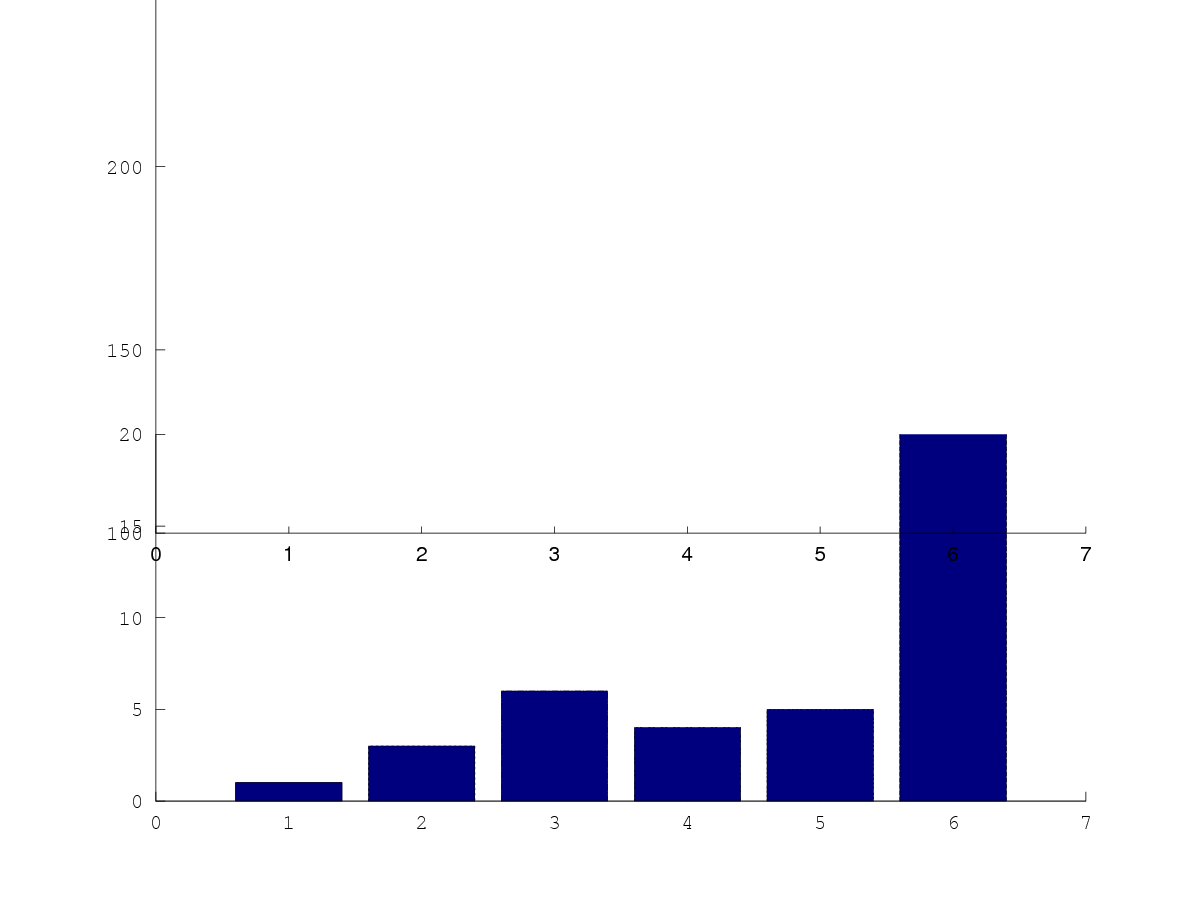
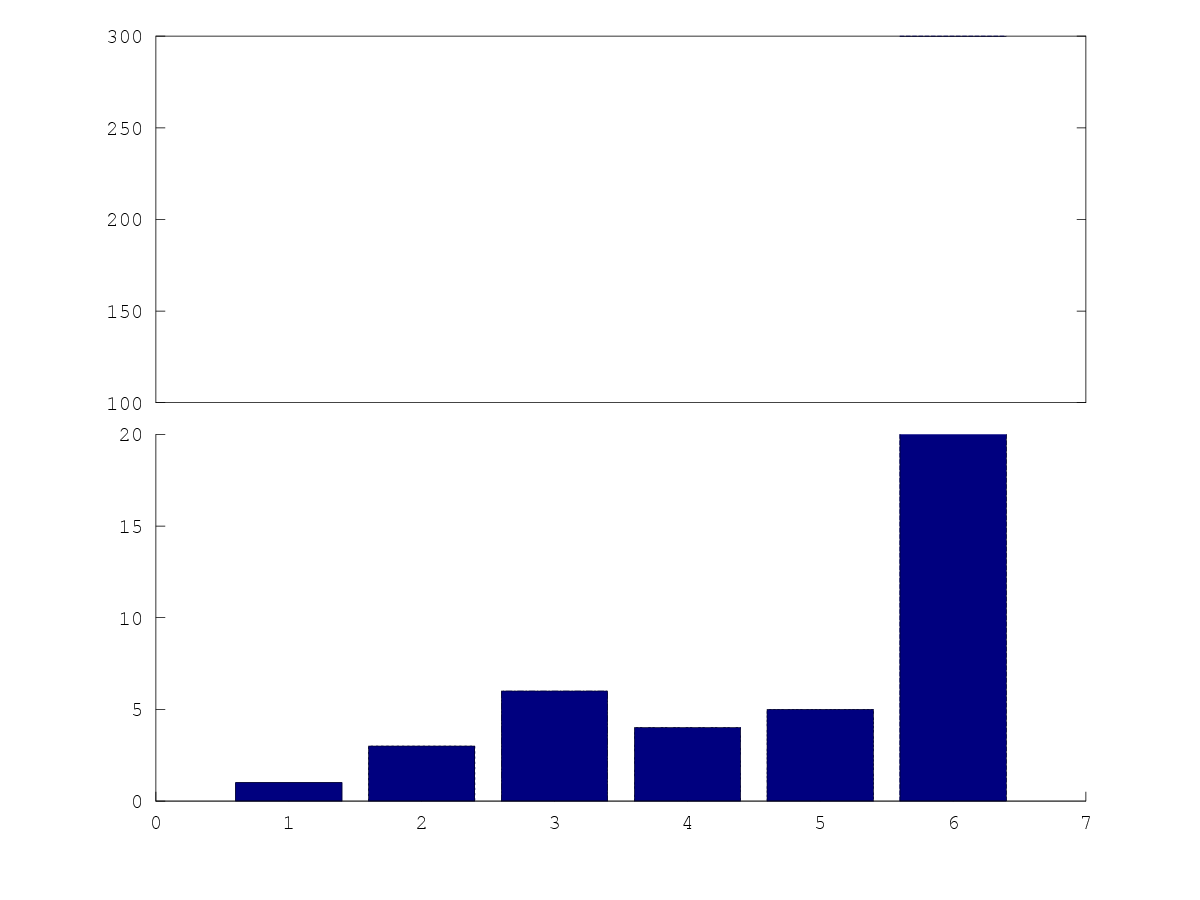
break_axis.m

diff --git a/break_axis.m b/break_axis.m
@@ -19,18 +19,19 @@ box off;
 
 % create axis2
 %a2=axes('position',[p0(1)+p0(3)/2+.025 p0(2) p0(3)/2-.025 p0(4)]);
-%a2=axes('position',[p0(1) p0(4)/2+.145 p0(3) p0(4)/2])
-a2=axes('position',[p0(1) p0(4)/2 p0(3) p0(4)])
+a2=axes('position',[p0(1) p0(4)/2+.145 p0(3) p0(4)/2])
+%a2=axes('position',[p0(1) p0(4)/2 p0(3) p0(4)])
 %barh(a);
 bar(a);
 
 set(a2,'xlim',xlim,'ylim',ylim2);
 set(a2,'xtick',[]);
 %set(a2,'xcolor',get(a2,'color'));
-box off
+%box off
 
 %%%%%%%%%%%%%%%% plotting %%%%%%%%%%%%%%%%%%%%%
 output = "break_axis";
 
 saveas(1, strcat(output, ".png"));
 
+box off
